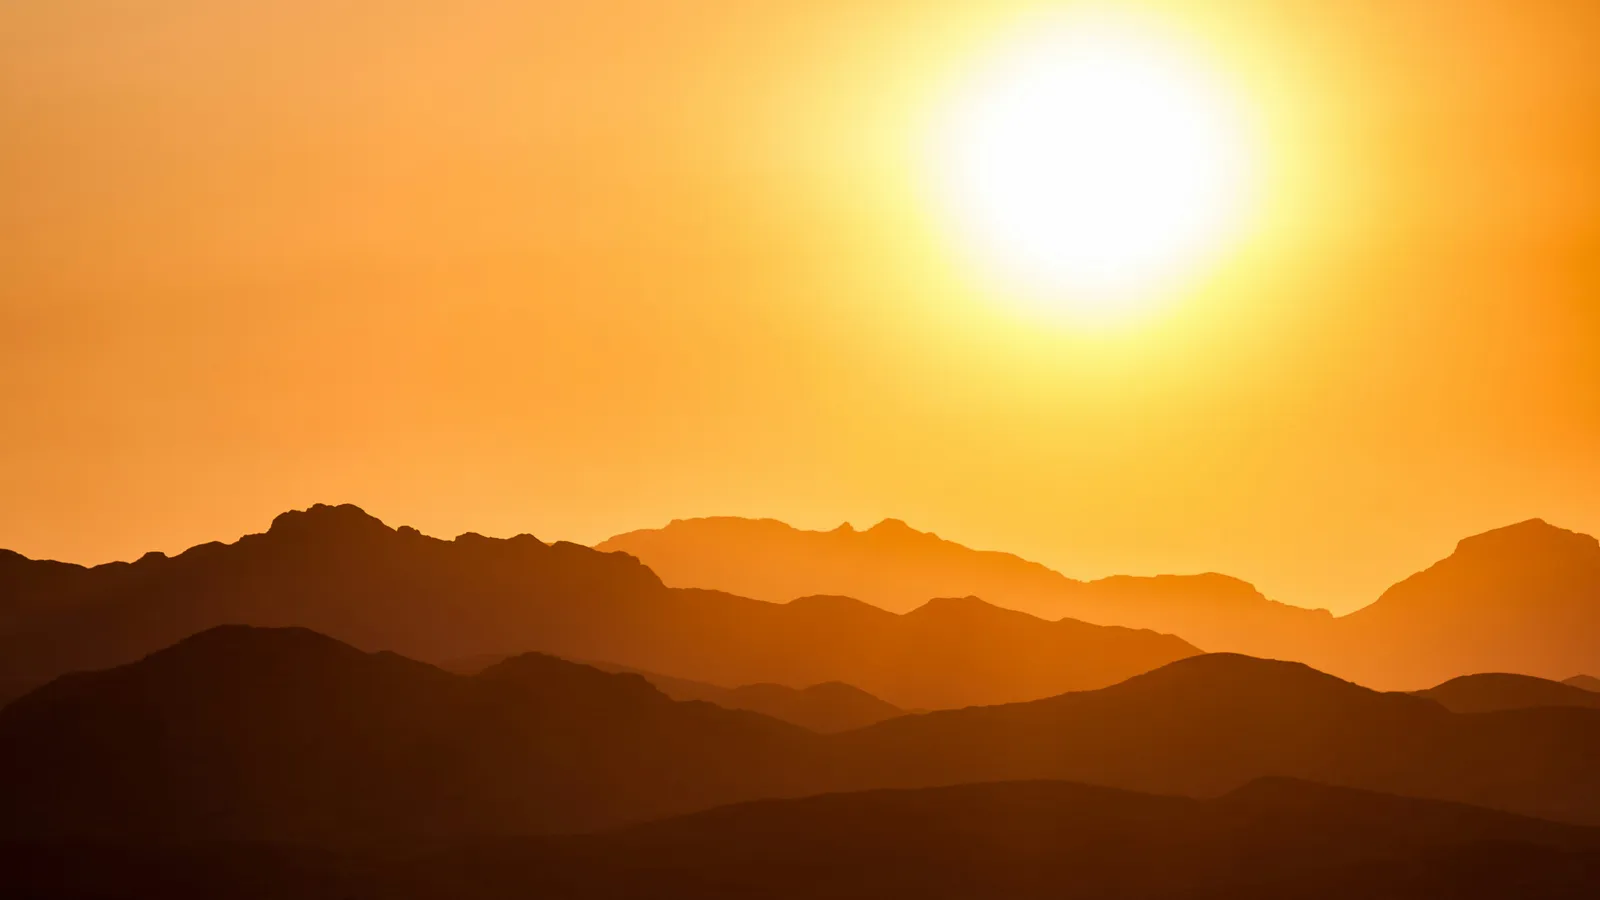
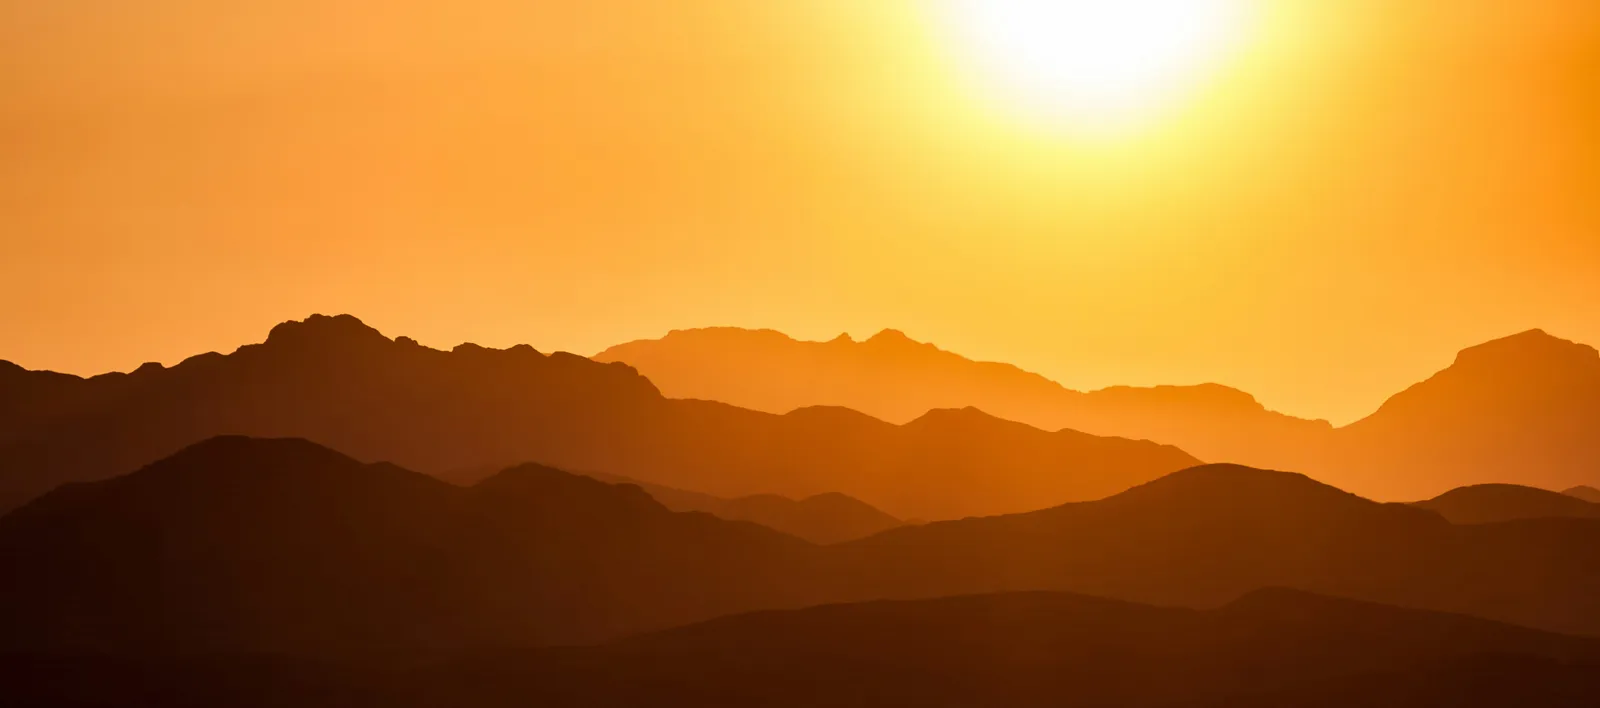
Gör så att hero-bild ändras med valt tema samt gör små justeringar i övrig css

diff --git a/src/styles/_layout.scss b/src/styles/_layout.scss
@@ -84,13 +84,17 @@
     padding: 0.25rem 0;
 }
 
-.hero__image {
-    margin: 0 auto;
-    max-width: var(--max-width);
-    width: 100%;
-    height: 320px;
-    object-fit: cover;
+.hero {
+  margin: 0 auto;
+  width: 100%;
+  max-width: var(--max-width);
+  min-height: 20rem;
+  background-image: var(--theme-hero-image);
+  background-size: cover;
+  background-position: center;
+  background-repeat: no-repeat;
 }
+
 
 @media (max-width: 768px) {
     .hero__image {
@@ -103,9 +107,9 @@
 }
 
 .map {
-  width: 100%;
-  height: 500px;
-  border: 1px solid #000;
+    width: 100%;
+    height: 500px;
+    border: 1px solid #000;
 }
 
 .route-planner,
@@ -115,30 +119,32 @@
 }
 
 .site-footer {
-    margin-top: var(--space-2xl);
+    margin: 0 auto;
+    width: 100%;
+    max-width: var(--max-width);
+    text-align: center;
+    padding: var(--space-md);
     background-color: var(--color-primary);
 }
 
-.site-footer .container {
-    padding-block: var(--space-md);
-}
+
+
+
 
 /* ===== TEMASIDAN ===== */
 
 .theme-selector {
-  margin-top: var(--space-xl);
-  text-align: center;
+    margin-top: var(--space-xl);
+    text-align: center;
 }
 
 .theme-selector h1 {
-  margin-bottom: var(--space-md);
+    margin-bottom: var(--space-md);
 }
 
 .theme-selector__actions {
-  display: flex;
-  flex-direction: column;
-  align-items: center;
-  gap: var(--space-sm);
+    display: flex;
+    flex-direction: column;
+    align-items: center;
+    gap: var(--space-sm);
 }
-
-

diff --git a/src/styles/_themes.scss b/src/styles/_themes.scss
@@ -3,6 +3,7 @@
   --theme-primary: #4A7253;
   --theme-secondary: #204523;
   --theme-header-footer-text: #ffffff;
+  --theme-hero-image: url("/images/header_forest.webp");
 }
 
 /* Skog */
@@ -10,6 +11,7 @@ body[data-theme="forest"] {
   --theme-primary: #4A7253;
   --theme-secondary: #204523;
   --theme-header-footer-text: #ffffff;
+  --theme-hero-image: url("/images/header_forest.webp");
 }
 
 /* Solnedgång */
@@ -17,6 +19,7 @@ body[data-theme="sunset"] {
   --theme-primary: #F4AF19;
   --theme-secondary: #D69200;
   --theme-header-footer-text: #000000;
+  --theme-hero-image: url("/images/header_sunset.webp");
 }
 
 /* Hav */
@@ -24,6 +27,7 @@ body[data-theme="ocean"] {
   --theme-primary: #315186;
   --theme-secondary: #01304F;
   --theme-header-footer-text: #ffffff;
+  --theme-hero-image: url("/images/header_ocean.webp");
 }
 
 /* Delar som ska byta färg med tema */

diff --git a/src/styles/_components.scss b/src/styles/_components.scss
@@ -1,4 +1,5 @@
 @use 'variables';
+@use 'themes';
 
 .route-planner h1,
 .trip-map h2,
@@ -16,9 +17,9 @@
   top: 50%;
   left: calc(var(--space-6xl) / -2);
   transform: translateY(-50%);
-  width: 1px;
   height: 2.5em;
-  background-color: var(--color-text-secondary);
+  width: 0;
+  border-left: 1px solid var(--theme-header-footer-text);
 }
 
 @media (max-width: 768px) {
